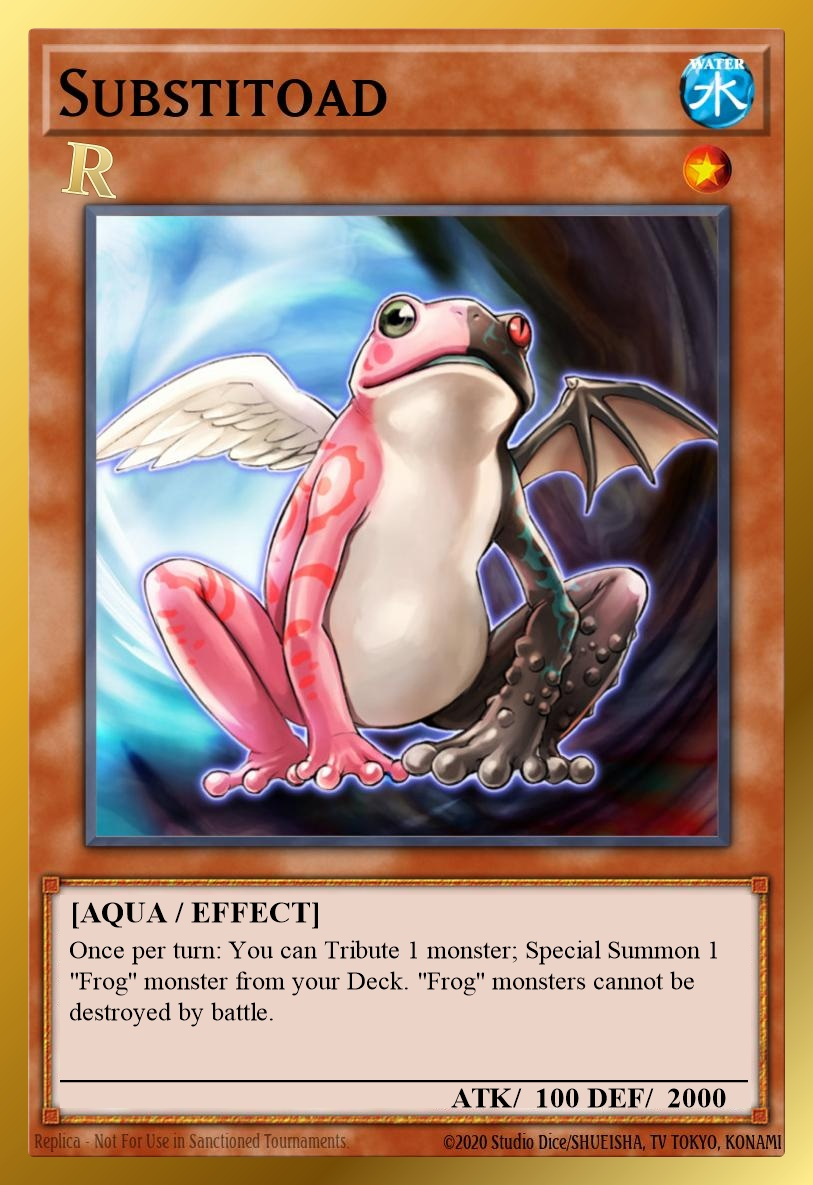
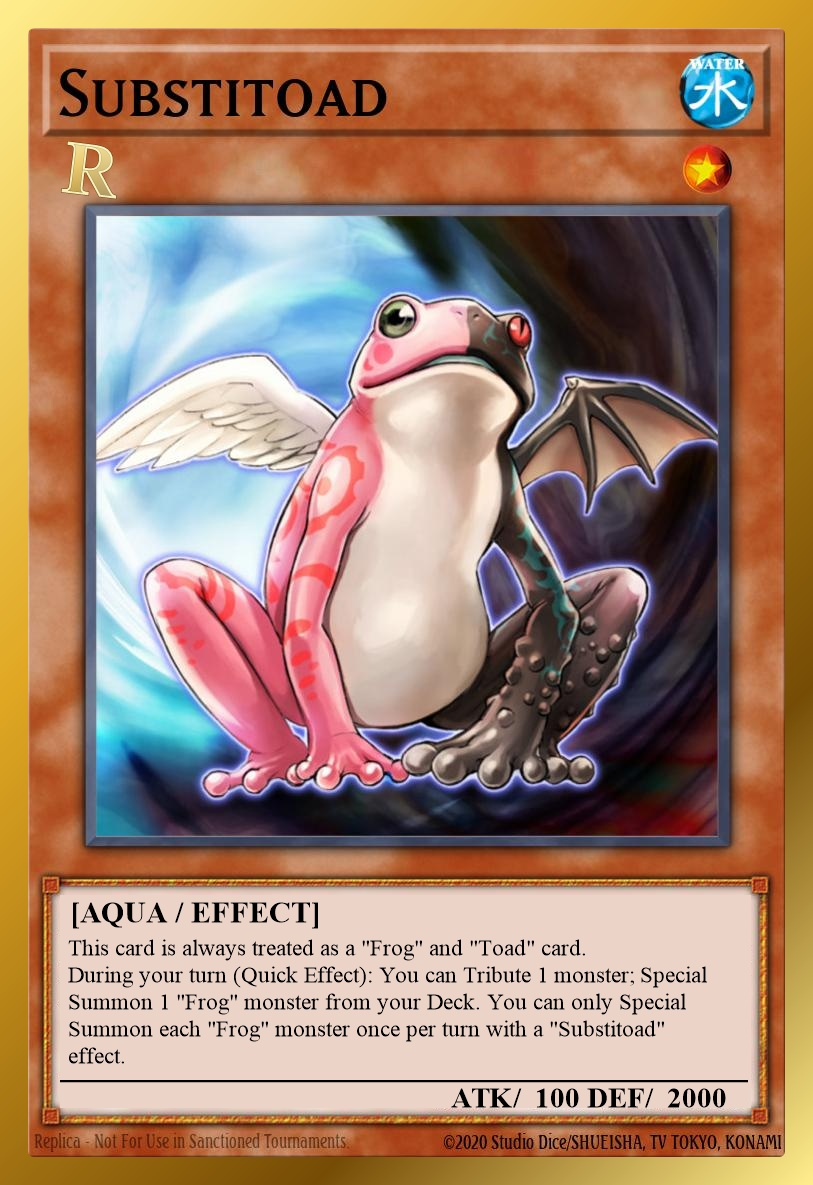
Rework Frog the Jam and Substitoad errata

Changed region(s): [[0.0615, 0.7806, 0.861, 0.9055]]

diff --git a/Redux/scripts/build-cards-cdb.js b/Redux/scripts/build-cards-cdb.js
@@ -31,8 +31,9 @@ const errataMarkers = new Map([
   [83764718, "\u2b07\ufe0f"], // Monster Reborn
   [83764719, "\u2b07\ufe0f"], // Monster Reborn alternate art
   [79571449, "\u2b07\ufe0f"], // Graceful Charity
+  [68638985, "\u267b\ufe0f"], // Frog the Jam
   [9126351, "\u2b06\ufe0f"], // Swap Frog
-  [20663556, "\u2b07\ufe0f"], // Substitoad
+  [20663556, "\u267b\ufe0f"], // Substitoad
   [21502796, "\u2b07\ufe0f"], // Ryko, Lightsworn Hunter
   [86099788, "\u2b07\ufe0f"], // The Last Warrior from Another Planet
 ]);
@@ -198,10 +199,21 @@ module.exports = function buildCardsDb({ reduxRoot }) {
       "Return 1 monster to gain an additional Normal Summon",
       9126351,
     );
-  const substitoadTextResult = db
-    .prepare("UPDATE texts SET desc = ? WHERE id = ?")
+  const frogTheJamTextResult = db
+    .prepare("UPDATE texts SET name = ?, desc = ? WHERE id = ?")
     .run(
-      'Once per turn: You can Tribute 1 monster; Special Summon 1 "Frog" monster from your Deck. "Frog" monsters cannot be destroyed by battle.',
+      "Frog the Jam",
+      'This card is always treated as a "Frog" and "Toad" card.\nA slime with the head of a frog, it attacks by croaking terribly.',
+      68638985,
+    );
+  const frogSetcodeResult = db
+    .prepare("UPDATE datas SET setcode = ? WHERE id IN (?, ?)")
+    .run(0x12, 68638985, 20663556);
+  const substitoadTextResult = db
+    .prepare("UPDATE texts SET desc = ?, str1 = ? WHERE id = ?")
+    .run(
+      'This card is always treated as a "Frog" and "Toad" card.\nDuring your turn (Quick Effect): You can Tribute 1 monster; Special Summon 1 "Frog" monster from your Deck. You can only Special Summon each "Frog" monster once per turn with a "Substitoad" effect.',
+      'Special Summon 1 "Frog" monster from your Deck',
       20663556,
     );
   const rykoTextResult = db
@@ -305,6 +317,12 @@ module.exports = function buildCardsDb({ reduxRoot }) {
   }
   if (Number(swapFrogTextResult.changes) !== 1) {
     throw new Error("Expected to update Swap Frog text once");
+  }
+  if (Number(frogTheJamTextResult.changes) !== 1) {
+    throw new Error("Expected to update Frog the Jam text once");
+  }
+  if (Number(frogSetcodeResult.changes) !== 2) {
+    throw new Error("Expected to update Frog setcodes twice");
   }
   if (Number(substitoadTextResult.changes) !== 1) {
     throw new Error("Expected to update Substitoad text once");

diff --git a/Redux/scripts/build-lflist.js b/Redux/scripts/build-lflist.js
@@ -115,6 +115,10 @@ const extraPrintEntries = new Map([
   ],
 ]);
 
+const commentChanges = new Map([
+  ["68638985", "Frog the Jam (Slime Toad)"], // Slime Toad renamed for Redux.
+]);
+
 const poolAdditions = [
   "3642509 3 --Elemental HERO Great Tornado",
   "1945387 3 --Elemental HERO Nova Master",
@@ -136,13 +140,21 @@ module.exports = function buildLflist({ reduxRoot }) {
   lflist = lflist.replace(/^#\[2011-Redux\]\r?\n!2011-Redux$/m, "#[Redux-11]\n!Redux-11");
 
   lflist = lflist.replace(/^(\d+) ([0-3])(\s+--.*)$/gm, (entry, passcode, _limit, comment) => {
-    if (!limitChanges.has(passcode)) {
+    if (!limitChanges.has(passcode) && !commentChanges.has(passcode)) {
       return entry;
     }
 
-    updatedPasscodes.set(passcode, (updatedPasscodes.get(passcode) ?? 0) + 1);
+    if (limitChanges.has(passcode)) {
+      updatedPasscodes.set(passcode, (updatedPasscodes.get(passcode) ?? 0) + 1);
+    }
+
+    const limit = limitChanges.get(passcode) ?? _limit;
+    const updatedComment = commentChanges.has(passcode)
+      ? ` --${commentChanges.get(passcode)}`
+      : comment;
+
     return [
-      `${passcode} ${limitChanges.get(passcode)}${comment}`,
+      `${passcode} ${limit}${updatedComment}`,
       ...(extraPrintEntries.get(passcode) ?? []),
     ].join("\n");
   });

diff --git a/README.md b/README.md
@@ -107,12 +107,13 @@ Redux Limits: `0` = forbidden; `1` = limited; `2` = semi-limited; `3` = unlimite
 | `3` [Butterfly Dagger - Elma](https://yugioh.fandom.com/wiki/Butterfly_Dagger_-_Elma) | ⬆ Equipped monster gains 800 ATK/DEF |
 | `3` [Destiny HERO - Disk Commander](https://yugioh.fandom.com/wiki/Destiny_HERO_-_Disk_Commander) | 🔄 Once per turn; draw 1 on any Special Summon |
 | `3` [Exchange of the Spirit](https://yugioh.fandom.com/wiki/Exchange_of_the_Spirit) | ⬇ once per duel (later format official errata) |
+| `3` [Frog the Jam](https://yugioh.fandom.com/wiki/Frog_the_Jam) | 🔄 Renamed; always Frog/Toad |
 | `3` [Makyura the Destructor](https://yugioh.fandom.com/wiki/Makyura_the_Destructor) | ⬆ ATK/DEF: 1600/1200 to 1900/1900 |
 | `3` [Mind Master](https://yugioh.fandom.com/wiki/Mind_Master) | ⬇ Once per turn |
 | `3` [Night Assailant](https://yugioh.fandom.com/wiki/Night_Assailant) | ⬇ Once per turn |
 | `3` [Raigeki](https://yugioh.fandom.com/wiki/Raigeki) | ⬇ Discard 1; no battle damage |
 | `3` [Ryko, Lightsworn Hunter](https://yugioh.fandom.com/wiki/Ryko,_Lightsworn_Hunter) | ⬇ Target before resolving (master rule 1) |
-| `3` [Substitoad](https://yugioh.fandom.com/wiki/Substitoad) | ⬇ Once per turn; can summon Frog the Jam |
+| `3` [Substitoad](https://yugioh.fandom.com/wiki/Substitoad) | 🔄 Counts as Frog/Toad; Quick Effect; each Frog once per turn |
 | `3` [Swap Frog](https://yugioh.fandom.com/wiki/Swap_Frog) | ⬆ Revert to Master Rule 1 version |
 | `3` [The Last Warrior from Another Planet](https://yugioh.fandom.com/wiki/The_Last_Warrior_from_Another_Planet) | ⬇ No monster destruction; only blocks Special Summons |
 
@@ -261,7 +262,7 @@ Redux Limits: `0` = forbidden; `1` = limited; `2` = semi-limited; `3` = unlimite
 | [Makyura the Destructor](https://yugioh.fandom.com/wiki/Makyura_the_Destructor) | 0 | `3` | 0 | ⬆ |
 | [Metamorphosis](https://yugioh.fandom.com/wiki/Metamorphosis) | 0 | `3` | 0 |  |
 | [Raigeki](https://yugioh.fandom.com/wiki/Raigeki) | 0 | `1` | 0 | ⬇ |
-| [Substitoad](https://yugioh.fandom.com/wiki/Substitoad) | 0 | `3` | 0 | ⬇ |
+| [Substitoad](https://yugioh.fandom.com/wiki/Substitoad) | 0 | `3` | 0 | 🔄 |
 | [Temple of the Kings](https://yugioh.fandom.com/wiki/Temple_of_the_Kings) | 0 | `3` | 0 |  |
 | [Tribe-Infecting Virus](https://yugioh.fandom.com/wiki/Tribe-Infecting_Virus) | 0 | `3` | 0 |  |
 | [Mind Master](https://yugioh.fandom.com/wiki/Mind_Master) | 1 | `3` | 0 | ⬇ |

diff --git a/toDos.md b/toDos.md
@@ -3,3 +3,5 @@
 card deck editor to width, aspect ratio fix, dynamic card amount
 
 elimination matches, no side board limit, rename side deck
+
+saber hole to semi-limited
